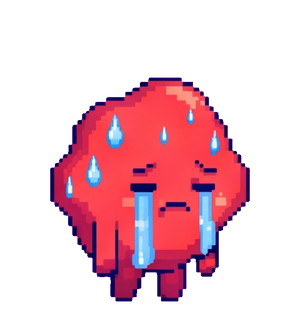
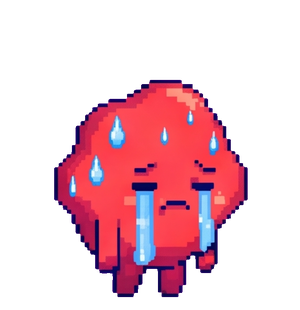
Track the minute, and plant the mascot on its feet
The reading now follows the wall clock. Open-Meteo's "current" is a
15-minute model step and no free source does better, so the worker pulls
the 15-minutely series and the client interpolates it to the actual
minute in the city's own timezone -- interpolation, not invention: dew
point and temperature move smoothly at this scale, and upstream itself
interpolates from hourly outside central Europe. A once-a-minute tick
keeps the number moving while the tab is open, a five-minute silent
refetch brings the next model step in behind it, and the chip earns its
"now" back. KV freshness tightens from ten minutes to five to match;
upstream still sees at most one fetch per city per window.

The mascot sat off-centre because each frame was centred on its full
bounding box, and a sun hat or a wind puff widens the box on one side,
dragging the body the other way. Frames now anchor on the centre of
mass of the sprite's lower half, which is always just body and feet.
Hats and wind lines overhang; the character stays put.

Claude-Session: https://claude.ai/code/session_018EW29irikC3y8wdG3gXtUG

Changed region(s): [[0.15, 0.2323, 0.84, 0.9871], [0.51, 0.4065, 0.57, 0.4645]]

diff --git a/public/app.js b/public/app.js
@@ -97,6 +97,39 @@
     document.querySelectorAll('.units button').forEach((b) => b.classList.toggle('is-on', b.dataset.unit === unit));
   }
 
+  /**
+   * "Current" from the model is a 15-minute step; the app promises the minute.
+   * So the 15-minutely series is interpolated to the wall clock in the city's
+   * own timezone, and a once-a-minute tick keeps it moving while the tab is
+   * open. This is interpolation, not invention: dew point and temperature move
+   * smoothly at this scale, and upstream itself interpolates from hourly data
+   * outside central Europe.
+   */
+  function synthesize() {
+    if (!data || !data.current) return;
+    if (!data._model) data._model = { ...data.current };   // the pristine model step
+    const cur = { ...data._model };
+    const off = data.utc_offset_seconds || 0;
+    const iso = new Date(Date.now() + off * 1000).toISOString().slice(0, 16);
+    const m = data.minutely_15;
+    if (m && m.time && m.time.length > 1 && iso >= m.time[0]) {
+      let i = 0;
+      while (i + 1 < m.time.length && m.time[i + 1] <= iso) i++;
+      const j = Math.min(i + 1, m.time.length - 1);
+      const t0 = Date.parse(`${m.time[i]}:00Z`);
+      const t1 = Date.parse(`${m.time[j]}:00Z`);
+      const frac = t1 > t0 ? Math.min(1, (Date.parse(`${iso}:00Z`) - t0) / (t1 - t0)) : 0;
+      for (const k of ['temperature_2m', 'relative_humidity_2m', 'dew_point_2m', 'apparent_temperature', 'shortwave_radiation']) {
+        const a = m[k] && m[k][i];
+        const b = m[k] && m[k][j];
+        if (a != null && b != null) cur[k] = a + (b - a) * frac;
+        else if (a != null) cur[k] = a;
+      }
+      cur.time = iso;
+    }
+    data.current = cur;
+  }
+
   // ---------- is this normal? ----------
   /** Percentile of x within a 101-point quantile ladder. */
   function pctOf(q, x) {
@@ -382,7 +415,7 @@
     document.title = currentPlace && !currentPlace.geo
       ? `${COPY[now][0]} in ${currentPlace.name} · muggy.fyi`
       : `Muggy · ${COPY[now][0]}`;
-    els.timeChip.textContent = `as of ${cur.time.slice(11, 16)}`;
+    els.timeChip.textContent = `now · ${cur.time.slice(11, 16)}`;
     els.title.textContent = COPY[now][0];
     els.blurb.textContent = blurbFor(now, cur);
     els.temp.textContent = fmtTemp(cur.temperature_2m);
@@ -458,6 +491,7 @@
       if (!data.current || data.current.dew_point_2m == null) throw new Error('no dew point');
       currentPlace = place;
       prefs.place = place; savePrefs();
+      synthesize();
       render();
       // A stale hit means the worker is refreshing KV behind this response.
       // Pick the fresh copy up once, quietly, without flashing the UI.
@@ -467,7 +501,7 @@
             const r2 = await fetch(`/api/forecast?lat=${place.lat}&lon=${place.lon}`, { cache: 'reload' });
             if (!r2.ok) return;
             const d2 = await r2.json();
-            if (d2.current && d2.current.dew_point_2m != null) { data = d2; render(); }
+            if (d2.current && d2.current.dew_point_2m != null) { data = d2; synthesize(); render(); }
           } catch { /* the stale data stays; it was good enough to render */ }
         }, 6000);
       }
@@ -577,6 +611,21 @@
     const ok = await locate({ silent: true });
     if (!ok) { load(DEFAULT_PLACE); toast('Showing Tirana. Tap the name to change.'); }
   })();
+
+  // The minute tick moves the interpolated reading; the five-minute fetch
+  // brings a fresh model step behind it.
+  setInterval(() => {
+    if (data && !document.hidden) { synthesize(); render(); }
+  }, 60000);
+  setInterval(async () => {
+    if (!currentPlace || document.hidden) return;
+    try {
+      const r = await fetch(`/api/forecast?lat=${currentPlace.lat}&lon=${currentPlace.lon}`, { cache: 'reload' });
+      if (!r.ok) return;
+      const d = await r.json();
+      if (d.current && d.current.dew_point_2m != null) { data = d; synthesize(); render(); }
+    } catch { /* keep what we have */ }
+  }, 300000);
 
   // Refresh when coming back to the tab after a while.
   let hidden = 0;

diff --git a/src/index.js b/src/index.js
@@ -39,7 +39,7 @@ const OG_LINE = {
 // Forecast freshness. FRESH is what users see; STALE_SERVE is how long stale
 // data is acceptable while a background refresh runs; STALE_MAX is the
 // upstream-is-down emergency ration.
-const FRESH_S = 600;
+const FRESH_S = 300;
 const STALE_SERVE_S = 1800;
 const STALE_MAX_S = 24 * 3600;
 
@@ -83,6 +83,8 @@ async function fetchUpstreamForecast(lat, lon) {
   up.searchParams.set('longitude', lon.toFixed(2));
   up.searchParams.set('hourly', HOURLY);
   up.searchParams.set('current', CURRENT);
+  up.searchParams.set('minutely_15', 'temperature_2m,relative_humidity_2m,dew_point_2m,apparent_temperature,shortwave_radiation');
+  up.searchParams.set('forecast_minutely_15', '96');
   up.searchParams.set('timezone', 'auto');
   up.searchParams.set('forecast_days', '7');
   const r = await fetch(up, { headers: { 'user-agent': 'muggy.fyi (Cloudflare Worker)' } });
@@ -165,7 +167,7 @@ async function forecast(request, env, ctx) {
   track(env, request, 'api:forecast', coordKey(c.lat, c.lon), state);
   if (!data) return json({ error: 'weather service unavailable' }, 503);
   // Short edge/browser TTL in front of the KV layer.
-  return json(data, 200, { 'cache-control': 'public, max-age=300', 'x-muggy-cache': state });
+  return json(data, 200, { 'cache-control': 'public, max-age=120', 'x-muggy-cache': state });
 }
 
 async function geocode(request, env, ctx) {

diff --git a/tools/slice-sprites.py b/tools/slice-sprites.py
@@ -40,7 +40,7 @@ def runs(mask):
 # --------------------------------------------------------------------------
 CLOUD_FRAMES = 6
 CELL_W, CELL_H = 300, 310          # output size per frame
-PAD = 18                           # breathing room inside the cell (source px)
+PAD = 28                           # breathing room, and slack for body-centring (source px)
 
 src = Image.open('sheet-cloud.jpg').convert('RGB')
 a = np.asarray(src).astype(int)
@@ -106,9 +106,17 @@ for ri, level in enumerate(LEVELS):
             continue
         cell = Image.new('RGBA', (src_w, src_h), (0, 0, 0, 0))
         frame = keyed.crop((box[0], box[1], box[2] + 1, box[3] + 1))
-        # Centred horizontally, sitting on the floor of the cell: feet stay put
-        # across the walk cycle while hats and wind lines overhang upward.
-        cell.paste(frame, ((src_w - frame.width) // 2, src_h - PAD - frame.height), frame)
+        # Centre on the BODY, not the bounding box. Sun hats, wind puffs and
+        # the heatwave sign widen the box on one side and drag the character
+        # off-centre; the lower half of the sprite is always just body and
+        # feet, so its centre of mass is the honest anchor.
+        fa = np.asarray(frame)[..., 3] > 0
+        lower = fa[int(fa.shape[0] * 0.55):, :]
+        xs_body = np.where(lower)[1]
+        cx = xs_body.mean() if len(xs_body) else frame.width / 2
+        x = int(round(src_w / 2 - cx))
+        x = max(0, min(src_w - frame.width, x))
+        cell.paste(frame, (x, src_h - PAD - frame.height), frame)
         cell = cell.resize((CELL_W, CELL_H), Image.LANCZOS)
         strip.paste(cell, (ci * CELL_W, 0))
         if ci == 0:

diff --git a/README.md b/README.md
@@ -114,10 +114,12 @@ cache:
 edge cache (per colo, minutes) → KV (global, stale-while-revalidate) → upstream
 ```
 
-The KV layer is what protects the upstream API. A forecast younger than 10 minutes serves as fresh;
-up to 3 hours old it serves instantly *and* refreshes in the background, so worldwide traffic costs
-Open-Meteo at most about one fetch per city per 10 minutes; and if the upstream is down or rate-limiting,
-stale data keeps serving for a day rather than erroring. Geocoding is cached 30 days — cities don't
+The KV layer is what protects the upstream API. A forecast younger than 5 minutes serves as fresh;
+up to 30 minutes old it serves instantly *and* refreshes in the background, so worldwide traffic costs
+Open-Meteo at most about one fetch per city per 5 minutes; and if the upstream is down or rate-limiting,
+stale data keeps serving for a day rather than erroring. The model's "current" is a 15-minute step, so
+the client interpolates the 15-minutely series to the actual minute in the city's timezone, re-renders
+every minute, and refetches every 5 — the reading tracks the wall clock instead of stepping. Geocoding is cached 30 days — cities don't
 move. Pages run through the Worker (`run_worker_first`) for the canonical-host redirect, OG injection
 and analytics; sprites, banners and static files skip it and serve straight from the asset layer.
 
@@ -138,7 +140,7 @@ sheet-cloud.jpg       Source spritesheet — pixel cloud, 6 levels × 6 frames, 
 
 | Route | Cache | Notes |
 |---|---|---|
-| `GET /api/forecast?lat=&lon=` | KV SWR (10 min fresh / 3 h stale / 24 h emergency) | `x-muggy-cache` header says which |
+| `GET /api/forecast?lat=&lon=` | KV SWR (5 min fresh / 30 min stale / 24 h emergency) | `x-muggy-cache` header says which |
 | `GET /api/geocode?q=` | KV 30 d | City search |
 | `GET /api/normals?lat=&lon=` | 200 d, KV | Ten years of climatology for today's date |
 
